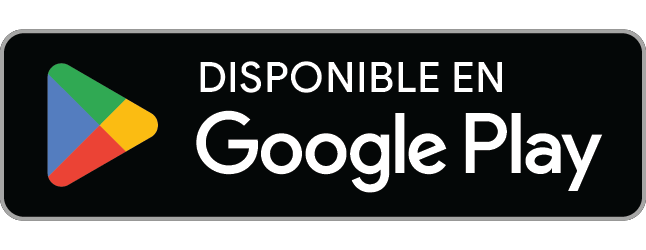
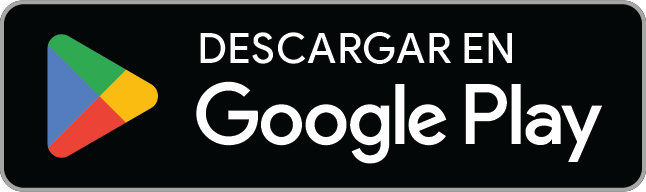
fix: keep the footer's store badges whole and at one height
Where the footer's column is narrower than a badge, as at tablet width, the browser shrank the badges' width but not their height, so both were drawn squeezed. They no longer shrink below their own width.

Google's badge artwork carried its own clear space, and the English file more of it than the others, so the English badge was drawn shorter than the App Store's, which Google's guidelines do not allow. The artwork now has only that transparent margin trimmed, and every Play badge is drawn at the App Store badge's 40px height.

diff --git a/resources/js/Components/StoreBadges.jsx b/resources/js/Components/StoreBadges.jsx
@@ -15,7 +15,9 @@ export function hasStoreBadges(stores) {
  * artwork, unaltered and in the reader's language (black on the light theme,
  * white on the dark one, as Apple allows), and Google's once the Play listing
  * is public. Until then a release can only be announced in plain text, since
- * Google's badge may only point at a live listing.
+ * Google's badge may only point at a live listing. Google's artwork has only
+ * its transparent margin trimmed, so both badges share the 40px height Google
+ * asks its own not to fall below. Neither shrinks with a narrow column.
  *
  * Renders nothing for a deployment that publishes no store build.
  *
@@ -42,7 +44,7 @@ export default function StoreBadges({ stores, className = '' }) {
                         alt={t('public.app_store')}
                         width="120"
                         height="40"
-                        className="block h-10 w-auto [[data-theme='padiushdark']_&]:hidden"
+                        className="block h-10 w-auto max-w-none [[data-theme='padiushdark']_&]:hidden"
                     />
                     <img
                         src={`/images/badges/app-store-${language}-white.svg`}
@@ -50,20 +52,18 @@ export default function StoreBadges({ stores, className = '' }) {
                         aria-hidden="true"
                         width="120"
                         height="40"
-                        className="hidden h-10 w-auto [[data-theme='padiushdark']_&]:block"
+                        className="hidden h-10 w-auto max-w-none [[data-theme='padiushdark']_&]:block"
                     />
                 </a>
             )}
             {playStore && (
-                // Google's artwork carries its own clear space, so it is drawn
-                // taller to give the badge itself the App Store's 40px.
                 <a href={playStore} rel="noopener" className="inline-block">
                     <img
                         src={`/images/badges/google-play-${language}.png`}
                         alt={t('public.google_play')}
-                        width="138"
-                        height="53"
-                        className="-my-1.5 block h-[53px] w-auto"
+                        width="135"
+                        height="40"
+                        className="block h-10 w-auto max-w-none"
                     />
                 </a>
             )}

diff --git a/resources/js/Components/StoreBadges.test.jsx b/resources/js/Components/StoreBadges.test.jsx
@@ -1,4 +1,5 @@
 import { render, screen } from '@testing-library/react';
+import { readFileSync } from 'node:fs';
 import { beforeEach, describe, expect, it, vi } from 'vitest';
 import StoreBadges, { hasStoreBadges } from './StoreBadges';
 
@@ -110,4 +111,38 @@ describe('StoreBadges', () => {
             '/images/badges/google-play-en.png',
         );
     });
+
+    it('keeps each badge at its own width in a narrow column', () => {
+        const { container } = render(
+            <StoreBadges
+                stores={{
+                    ...none,
+                    app_store: 'https://apps.example/1',
+                    play_store: 'https://play.example/app',
+                }}
+            />,
+        );
+
+        for (const image of container.querySelectorAll('img')) {
+            expect(image).toHaveClass('h-10', 'w-auto', 'max-w-none');
+        }
+    });
+
+    // The badges share a 40px height, and Google's may be no smaller than
+    // Apple's, so its artwork must be the badge alone, without clear space.
+    it.each(['es', 'en', 'pt'])(
+        "has Google's %s badge shaped for 135×40",
+        (language) => {
+            const data = readFileSync(
+                `public/images/badges/google-play-${language}.png`,
+            );
+            const width = data.readUInt32BE(16);
+            const height = data.readUInt32BE(20);
+
+            expect(Math.round((width / height) * 40)).toBeGreaterThanOrEqual(
+                134,
+            );
+            expect(Math.round((width / height) * 40)).toBeLessThanOrEqual(135);
+        },
+    );
 });

diff --git a/CHANGELOG.md b/CHANGELOG.md
@@ -16,6 +16,9 @@ language (`public/locales/whatsnew/`). How a release is cut is in
 - The field app's store badges in the public pages' footer are drawn in the
   reader's language when the browser reports it with a region, such as
   `en-US`, instead of falling back to Spanish.
+- The footer no longer squeezes the store badges where its column is narrow,
+  as at tablet width, and Google Play's badge is the same height as the App
+  Store's in every language; the English one was drawn smaller.
 
 ## [1.3.0] — 2026-10-22
 
